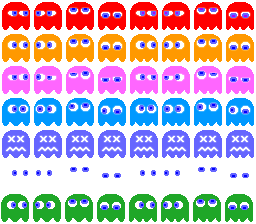
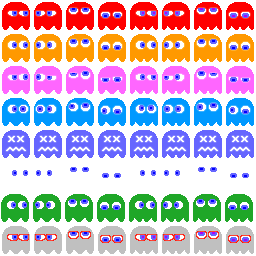
Modify: - add gray ghost (experimental)

diff --git a/jpacman/data/maps/pacman.tsx b/jpacman/data/maps/pacman.tsx
@@ -136,6 +136,12 @@
    <property name="green" value="true"/>
   </properties>
  </tile>
+ <tile id="37">
+  <properties>
+   <property name="ghost" value="true"/>
+   <property name="gray" value="true"/>
+  </properties>
+ </tile>
  <tile id="40">
   <properties>
    <property name="a" value="true"/>
